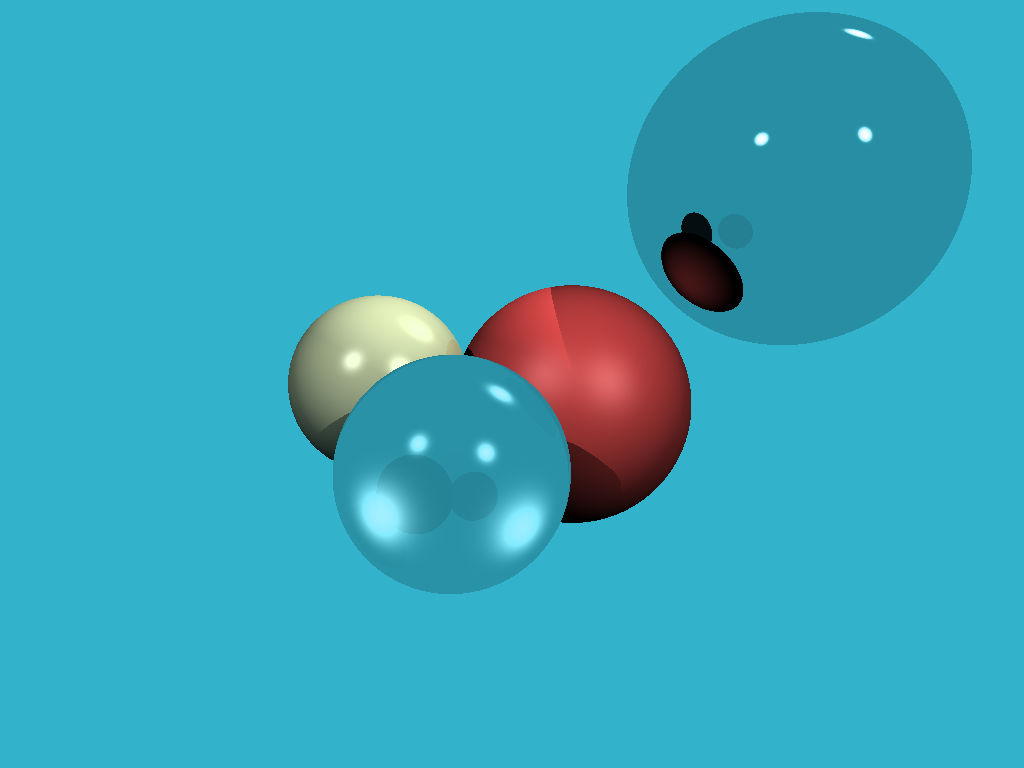
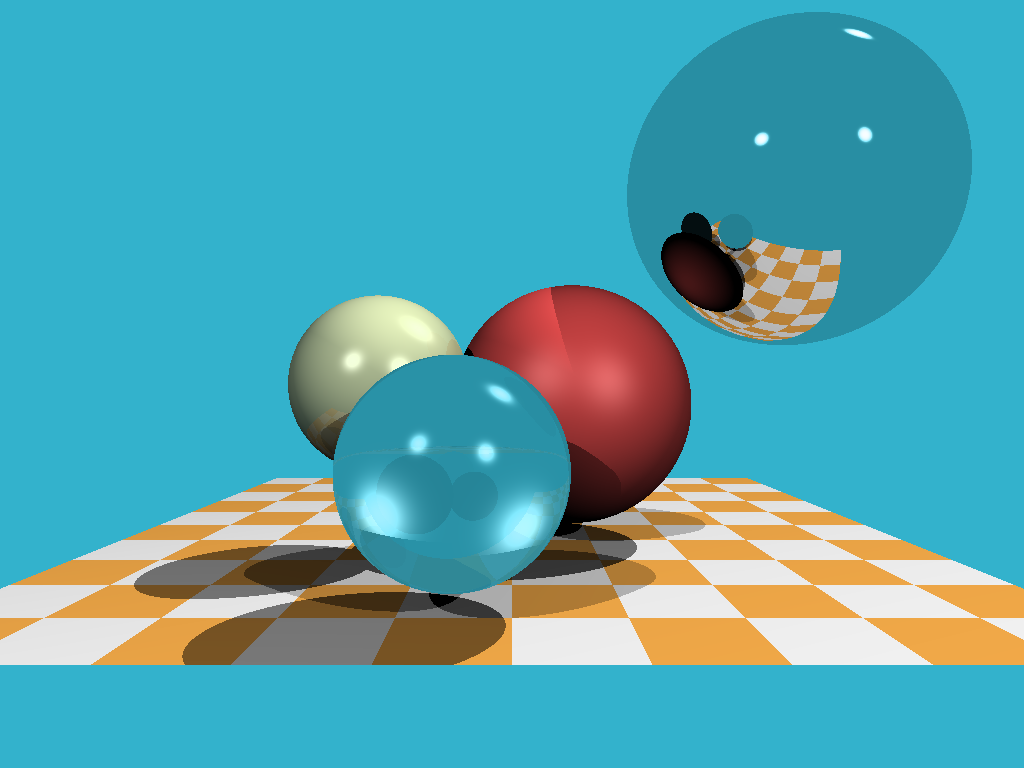
Checkerboard

Changed region(s): [[0.0, 0.625, 1.0, 0.875], [0.6875, 0.2812, 0.8438, 0.4688], [0.6562, 0.375, 0.6875, 0.4062]]

diff --git a/src/main.rs b/src/main.rs
@@ -56,7 +56,24 @@ fn scene_intersect(
         }
     }
 
-    if spheres_dist < 1000. {
+    let mut checkerboard_dist = std::f32::MAX;
+    if dir.1.abs() > 1e-3 {
+        let d = -(orig.1 + 4.)/dir.1;
+        let pt = *orig + * dir*d;
+        if d>0. && pt.0.abs() < 10. && pt.2 < -10. && pt.2 > -30. && d < spheres_dist {
+            checkerboard_dist = d;
+            *hit = pt;
+            *N = Vec3f(0., 1., 0.);
+            material.diffuse_color = if ((0.5*hit.0+1000.) as i32) + ((0.5*hit.2) as i32) & 1 == 1 {
+                Vec3f(1., 1., 1.)
+            } else {
+                Vec3f(1., 0.7, 0.3)
+            };
+            material.diffuse_color = material.diffuse_color*0.3;
+        }
+    }
+
+    if spheres_dist.min(checkerboard_dist) < 1000. {
         Some(material)
     } else {
         None
